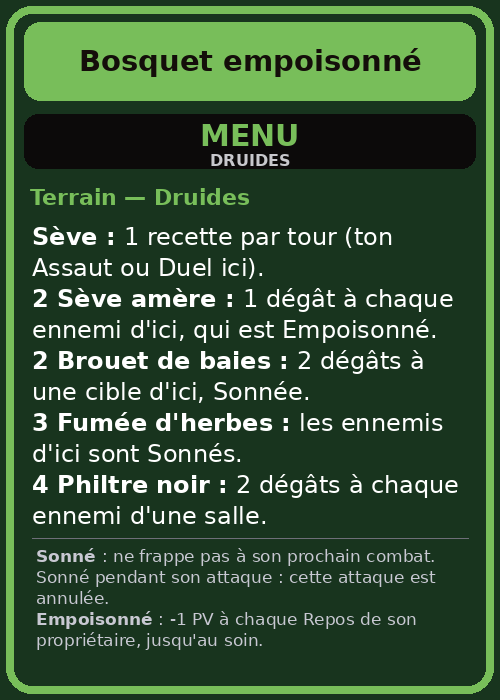
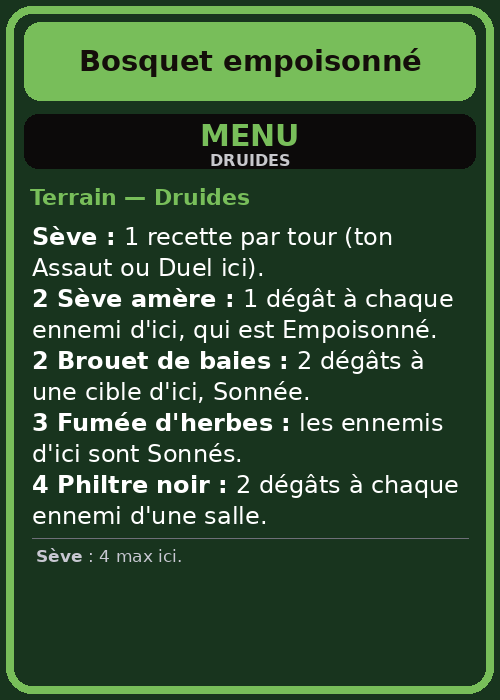
Terrains : cap de ressource en bas du menu ; monstres placés au lancement (#10)
* Terrains : cap de ressource sur le menu, sans rappels ; monstres placés au lancement

Recto des Terrains remis comme avant la PR #8. Le max de ressources
passe en tête du menu (là où on les dépense) et le menu n'affiche plus
les rappels de mots-clés.

Donjon : plus de setTimeout. L'hôte construit la pioche dès qu'il a les
deux listes (onPlayersReady, onUpdate, onOpponentUpdate), sinon au tour 2
(onNewTurn). Erreurs affichées dans le chat.

Claude-Session: https://claude.ai/code/session_01QvtSYsgdcPMk13PXEMpjsE

* Menu des Terrains : max de ressources en bas, à la place des rappels

Claude-Session: https://claude.ai/code/session_01QvtSYsgdcPMk13PXEMpjsE

---------

Changed region(s): [[0.06, 0.78, 0.87, 0.93]]

diff --git a/tools/from_bible.py b/tools/from_bible.py
@@ -158,6 +158,14 @@ def rappels_pour(texte, lang="fr"):
     return out
 
 
+def cap_note(cap, lang="fr"):
+    """« Sève : 4 max ici. » -> rappel en gras comme ceux du lexique."""
+    if not cap:
+        return None
+    terme, sep, reste = cap.partition(" : " if lang == "fr" else ": ")
+    return f"**{terme}**{sep}{reste}" if lang == "fr" else f"**{terme}:** {reste}"
+
+
 def invoque(texte):
     t = texte.lower()
     return [j for j in ("pousse", "loup") if j in t and "jeton." not in t]
@@ -206,8 +214,13 @@ def cartes_guildes():
                 recto_en, _, verso_en = texte_en.partition(" || ")
                 c["en"]["text"] = terrain_rich(recto_en, lang_en)
                 if verso:
-                    c["back"] = dict(text=terrain_rich(verso), recto=False, big="MENU")
-                    c["en"]["back"] = dict(text=terrain_rich(verso_en, lang_en))
+                    # 1re ligne du menu « Sève : 4 max ici. » : imprimée en bas, à la place des rappels.
+                    cap, _, reste = verso.partition(" / ")
+                    cap_en, _, reste_en = verso_en.partition(" / ")
+                    if " max " not in cap:
+                        cap, reste, cap_en, reste_en = "", verso, "", verso_en
+                    c["back"] = dict(text=terrain_rich(reste), recto=False, big="MENU", note=cap_note(cap))
+                    c["en"]["back"] = dict(text=terrain_rich(reste_en, lang_en), note=cap_note(cap_en, lang_en))
             out.append(c)
     return out
 
@@ -305,7 +318,7 @@ def ecrire_cartes(cards_list):
             if c.get("back"):
                 back = dict(c["back"], **(en.get("back") or {})) if lang == "en" else c["back"]
                 b = dict(v, **back, verso=True, back=None)
-                b["rappels"] = rappels_pour(b["text"], lang)
+                b["rappels"] = [b["note"]] if b.get("note") else []  # menu : seulement le max de ressources (choix de Lucas)
                 dessiner(b, os.path.join(out_dir, f"{c['id']}-verso{suffixe[lang]}.png"), lang)
                 noms_b[lang], images_b[lang] = b["name"], f"{BASE}/img/cards/{c['id']}-verso{suffixe[lang]}.png"
         nom = par_langue(noms["fr"], noms["en"])
